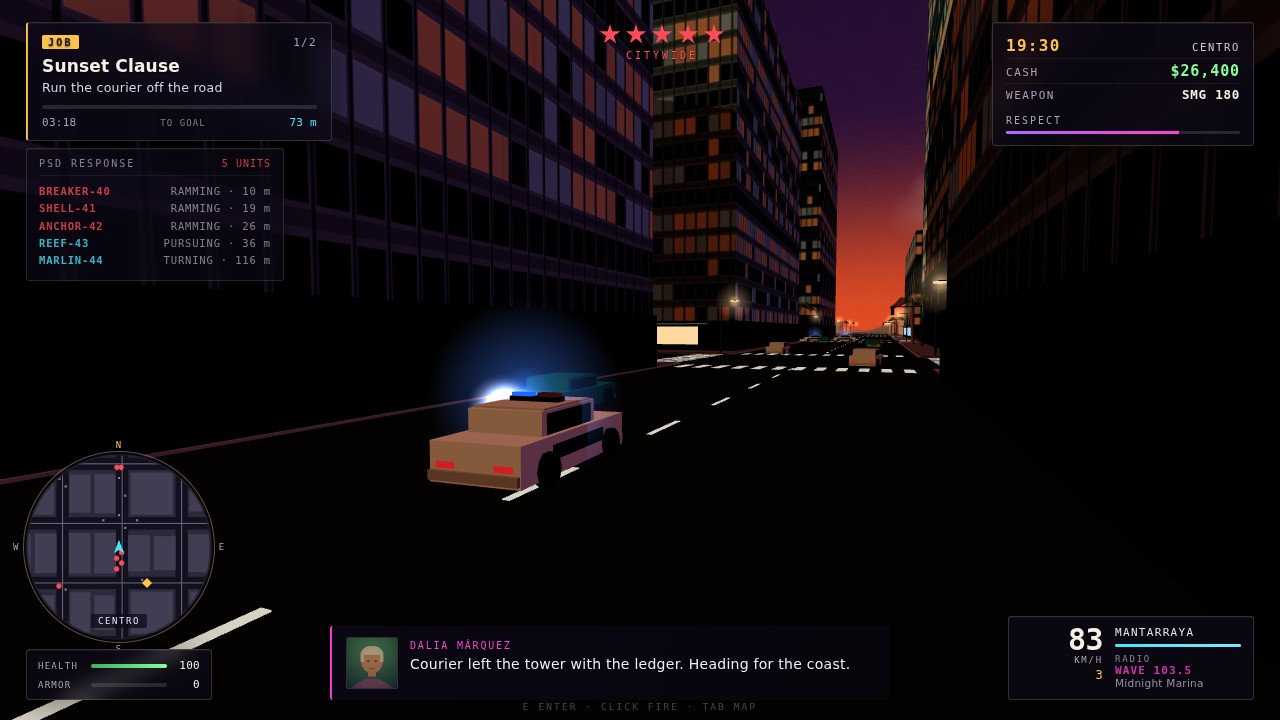
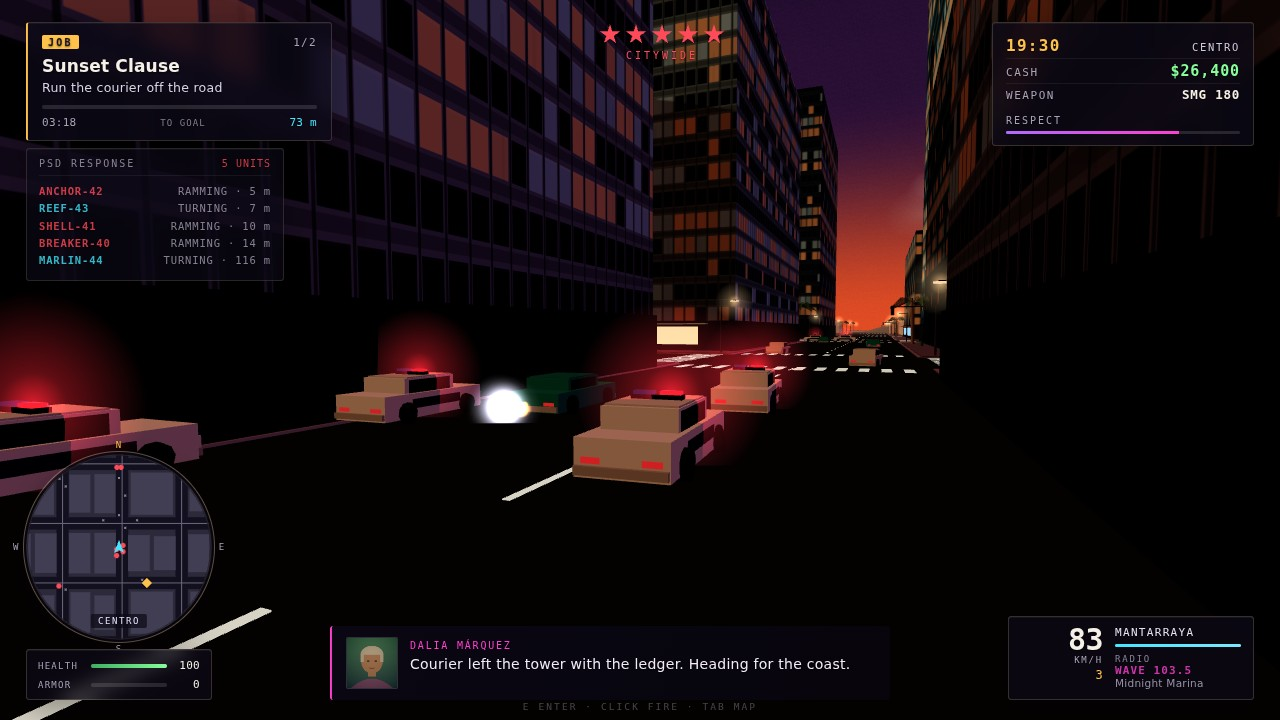
Screenshots and shot staging: pursuit pack in frame, heist firing line

diff --git a/game/src/shots.js b/game/src/shots.js
@@ -167,7 +167,14 @@ export function stageShot(G, name) {
       { x: 5, z: -44, h: Math.PI }, { x: -5, z: -74, h: 0 },
     ]);
     G.police.setWanted(5);
-    unitsBehind(G, -5, 40, Math.PI, 4);
+    // Three cruisers stacked between the camera and the Mantarraya, one more
+    // turning in behind: the pack has to fill the frame, not sit off it.
+    const pack = [[-9.5, 52], [1.5, 47], [-9.5, 42], [1.5, 37]];
+    for (const [x, z] of pack) {
+      const u = G.police.spawnUnit(x, z, Math.PI);
+      u.car.sirenOn = true;
+      u.car.speed = 18;
+    }
     G.police.heli.activate(-5, 40);
     G.police.heli.pos.set(26, 22, 4);
     G.effects.smoke(car.pos.x, 0.4, car.pos.z + 2, 12, undefined, 2.6);
